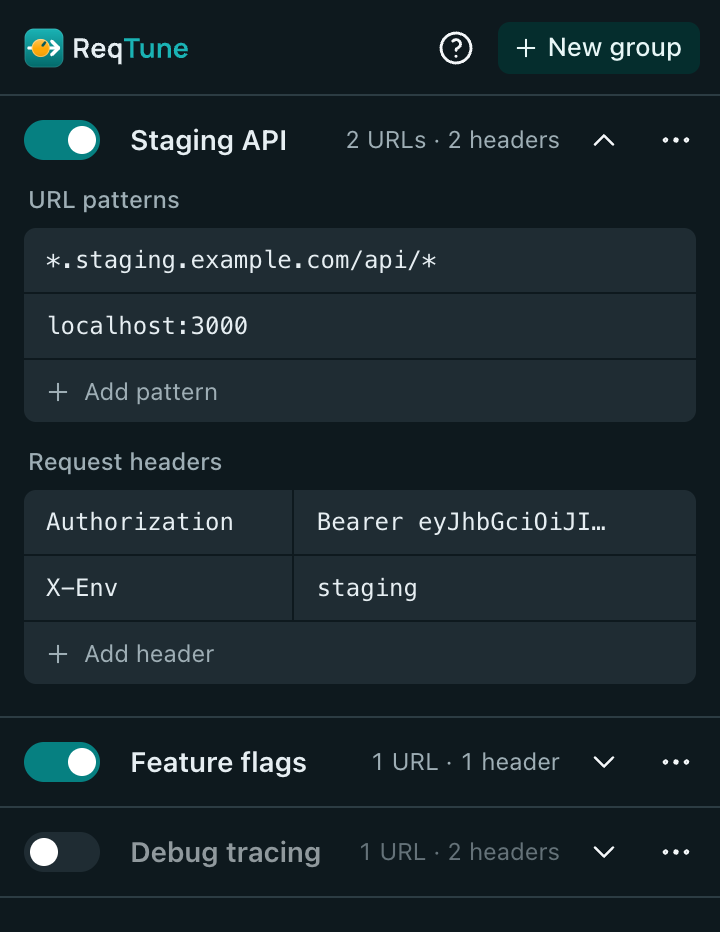
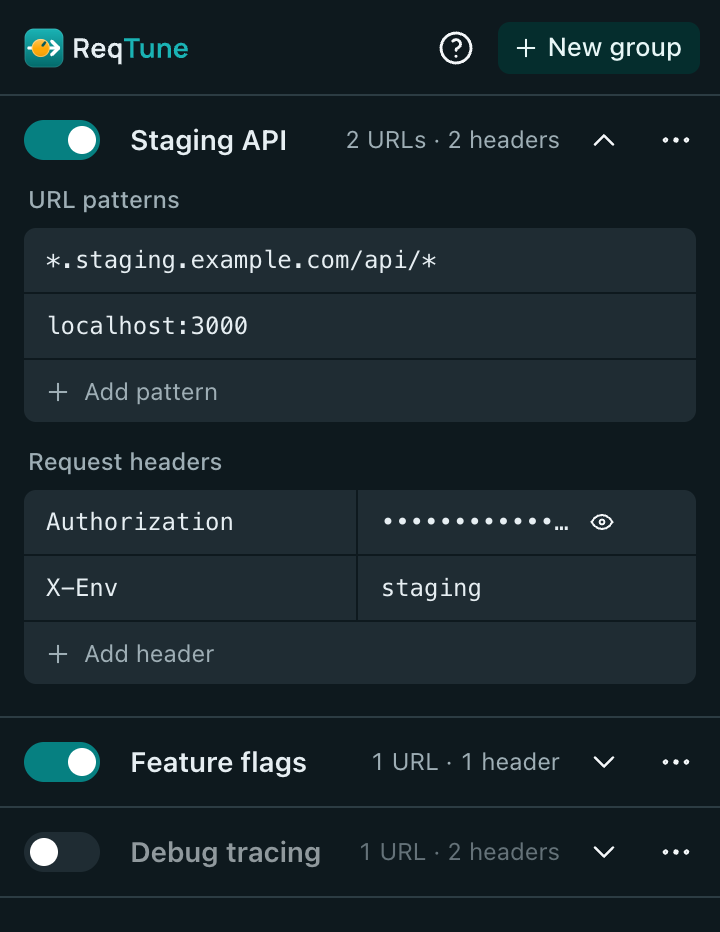
Hide secret header values and suggest header names
- Values of Authorization, Cookie and other token-like headers render as
  dots with a show/hide toggle; reveals reset when the panel reopens
- Header name field suggests common request headers (Mantine Autocomplete)
- Header name column gets slightly more room than the value column
- README features and screenshots updated

diff --git a/src/ui/components/HeaderList.tsx b/src/ui/components/HeaderList.tsx
@@ -1,7 +1,9 @@
-import type { KeyboardEvent } from 'react';
-import { TextInput } from '@mantine/core';
+import { type KeyboardEvent, useState } from 'react';
+import { ActionIcon, Autocomplete, TextInput, Tooltip } from '@mantine/core';
+import { IconEye, IconEyeOff } from '@tabler/icons-react';
 import type { HeaderEntry } from '../../shared/types';
 import { isValidHeaderName, isValidHeaderValue } from '../../shared/validation';
+import { COMMON_HEADERS, isSecretHeader } from '../headers';
 import { FieldList, RemoveButton, useFocusAfterRender } from './FieldList';
 import classes from './FieldList.module.css';
 
@@ -12,9 +14,12 @@ interface Props {
 }
 
 const inputClassNames = { input: classes.input, error: classes.error };
+const nameClassNames = { ...inputClassNames, option: classes.option };
 
 export function HeaderList({ headers, required, onChange }: Props) {
   const { ref, focus, focusAfterRender } = useFocusAfterRender();
+  // Row index -> the header name its value was revealed for, so renaming or shifting rows hides it again.
+  const [revealed, setRevealed] = useState<Record<number, string | undefined>>({});
 
   const update = (i: number, patch: Partial<HeaderEntry>) =>
     onChange(headers.map((h, j) => (j === i ? { ...h, ...patch } : h)));
@@ -31,6 +36,8 @@ export function HeaderList({ headers, required, onChange }: Props) {
   const onKeyDown = (i: number, field: 'name' | 'value') => (e: KeyboardEvent<HTMLInputElement>) => {
     if (e.nativeEvent.isComposing) return;
     if (e.key === 'Enter') {
+      // A highlighted suggestion owns this Enter; picking it moves on to the value via onOptionSubmit.
+      if (e.currentTarget.getAttribute('aria-activedescendant')) return;
       if (field === 'name') focus(`value${i}`);
       else insert(i + 1);
     } else if (e.key === 'Backspace' && headers[i].name === '' && headers[i].value === '' && headers.length > 1) {
@@ -49,20 +56,26 @@ export function HeaderList({ headers, required, onChange }: Props) {
     >
       {headers.map((header, i) => {
         const name = header.name.trim();
+        const secret = isSecretHeader(name);
+        const shown = revealed[i] === header.name;
         return (
           <div key={i} className={classes.row}>
-            <TextInput
+            <Autocomplete
               ref={ref(`name${i}`)}
               variant="unstyled"
               className={classes.name}
-              classNames={inputClassNames}
+              classNames={nameClassNames}
               aria-label={`Header ${i + 1} name`}
               placeholder="Header-Name"
               autoComplete="off"
               spellCheck={false}
+              data={COMMON_HEADERS}
+              limit={8}
+              openOnFocus={false}
               value={header.name}
               error={name !== '' && !isValidHeaderName(name) ? 'Use letters, digits and - only' : undefined}
-              onChange={(e) => update(i, { name: e.currentTarget.value })}
+              onChange={(value) => update(i, { name: value })}
+              onOptionSubmit={() => focus(`value${i}`)}
               onKeyDown={onKeyDown(i, 'name')}
             />
             <TextInput
@@ -75,6 +88,22 @@ export function HeaderList({ headers, required, onChange }: Props) {
               autoComplete="off"
               spellCheck={false}
               value={header.value}
+              data-masked={(secret && !shown) || undefined}
+              rightSectionWidth={32}
+              rightSectionPointerEvents="all"
+              rightSection={
+                secret ? (
+                  <Tooltip label={shown ? 'Hide value' : 'Show value'}>
+                    <ActionIcon
+                      size={24}
+                      aria-label={`${shown ? 'Hide' : 'Show'} header ${i + 1} value`}
+                      onClick={() => setRevealed({ ...revealed, [i]: shown ? undefined : header.name })}
+                    >
+                      {shown ? <IconEyeOff size={14} /> : <IconEye size={14} />}
+                    </ActionIcon>
+                  </Tooltip>
+                ) : undefined
+              }
               error={isValidHeaderValue(header.value) ? undefined : "Values can't contain line breaks"}
               onChange={(e) => update(i, { value: e.currentTarget.value })}
               onKeyDown={onKeyDown(i, 'value')}

diff --git a/src/ui/headers.ts b/src/ui/headers.ts
@@ -1,0 +1,40 @@
+/** Request headers people commonly set; offered as suggestions in the header name field. */
+export const COMMON_HEADERS = [
+  'Accept',
+  'Accept-Encoding',
+  'Accept-Language',
+  'Authorization',
+  'Cache-Control',
+  'Content-Type',
+  'Cookie',
+  'DNT',
+  'Forwarded',
+  'If-Modified-Since',
+  'If-None-Match',
+  'Origin',
+  'Pragma',
+  'Proxy-Authorization',
+  'Range',
+  'Referer',
+  'Save-Data',
+  'Sec-GPC',
+  'traceparent',
+  'tracestate',
+  'Upgrade-Insecure-Requests',
+  'User-Agent',
+  'X-API-Key',
+  'X-Correlation-ID',
+  'X-CSRF-Token',
+  'X-Forwarded-For',
+  'X-Forwarded-Host',
+  'X-Forwarded-Proto',
+  'X-Real-IP',
+  'X-Request-ID',
+  'X-Requested-With',
+];
+
+// Names whose values usually carry credentials. A bare `key` must be a whole name part, so X-Monkey stays visible.
+const SECRET = /auth|token|secret|passw|cookie|session|credential|api-?key|signature|jwt|bearer|csrf|xsrf|(^|[-_])key([-_]|$)/i;
+
+/** Whether a header's value stays hidden until the user reveals it. */
+export const isSecretHeader = (name: string): boolean => SECRET.test(name);

diff --git a/src/ui/components/FieldList.module.css b/src/ui/components/FieldList.module.css
@@ -55,6 +55,22 @@ input.input[aria-invalid='true']:focus {
   box-shadow: inset 0 0 0 1px var(--mantine-color-error);
 }
 
+/* Secret values show as dots, like a password field but without the password manager stepping in. */
+input.input[data-masked] {
+  -webkit-text-security: disc;
+}
+
+/* Room for the show/hide toggle inside secret value cells. */
+[data-with-right-section] input.input {
+  padding-inline-end: 32px;
+}
+
+/* Header name suggestions read like the inputs they fill. */
+.option {
+  font-family: var(--mantine-font-family-monospace);
+  font-size: var(--mantine-font-size-xs);
+}
+
 .error {
   padding: 0 10px 8px;
   font-size: 11px;
@@ -105,14 +121,14 @@ input.input[aria-invalid='true']:focus {
   outline-offset: -2px;
 }
 
-/* Header rows: name | value, split by a hairline. */
+/* Header rows: name | value, split by a hairline; names get slightly more room than values. */
 .name {
-  flex: 0 0 min(40%, 11rem);
+  flex: 6 1 0;
   min-width: 0;
 }
 
 .value {
-  flex: 1;
+  flex: 5 1 0;
   min-width: 0;
   border-left: 1px solid var(--rt-line);
 }

diff --git a/src/ui/headers.test.ts b/src/ui/headers.test.ts
@@ -1,0 +1,24 @@
+import { describe, expect, it } from 'vitest';
+import { isSecretHeader } from './headers';
+
+describe('isSecretHeader', () => {
+  it.each([
+    'Authorization',
+    'proxy-authorization',
+    'Cookie',
+    'X-Api-Key',
+    'apikey',
+    'X_API_KEY',
+    'X-Auth-Token',
+    'X-CSRF-Token',
+    'X-Session-Id',
+    'Sec-WebSocket-Key',
+    'X-Client-Secret',
+    'X-Hub-Signature',
+  ])('hides %s', (name) => expect(isSecretHeader(name)).toBe(true));
+
+  it.each(['User-Agent', 'Accept-Language', 'X-Request-ID', 'X-Forwarded-For', 'Keep-Alive', 'X-Monkey', 'Content-Type', ''])(
+    'shows %j',
+    (name) => expect(isSecretHeader(name)).toBe(false),
+  );
+});

diff --git a/README.md b/README.md
@@ -21,7 +21,8 @@
 - **Wildcard patterns** — `*.example.com/api/*`, `localhost:3000`, `/graphql` and more ([syntax](#pattern-syntax)).
 - **Instant** — changes apply as you type; Chrome sets the headers natively, with no JavaScript in the request path.
 - **Priority you control** — when groups set the same header, the one higher in the list wins. Reorder from the ⋯ menu.
-- **Comfortable editing** — duplicate groups, undo deletes, Enter to add a row, Backspace to drop an empty one.
+- **Screen-share safe** — values of `Authorization`, `Cookie` and other token-like headers show as dots until you reveal them.
+- **Comfortable editing** — header name suggestions, duplicate groups, undo deletes, Enter to add a row, Backspace to drop an empty one.
 - **Side panel** — stays open while you browse; light and dark themes follow your system.
 - **Private** — everything stays in local extension storage; ReqTune makes no network requests and collects nothing.
 
